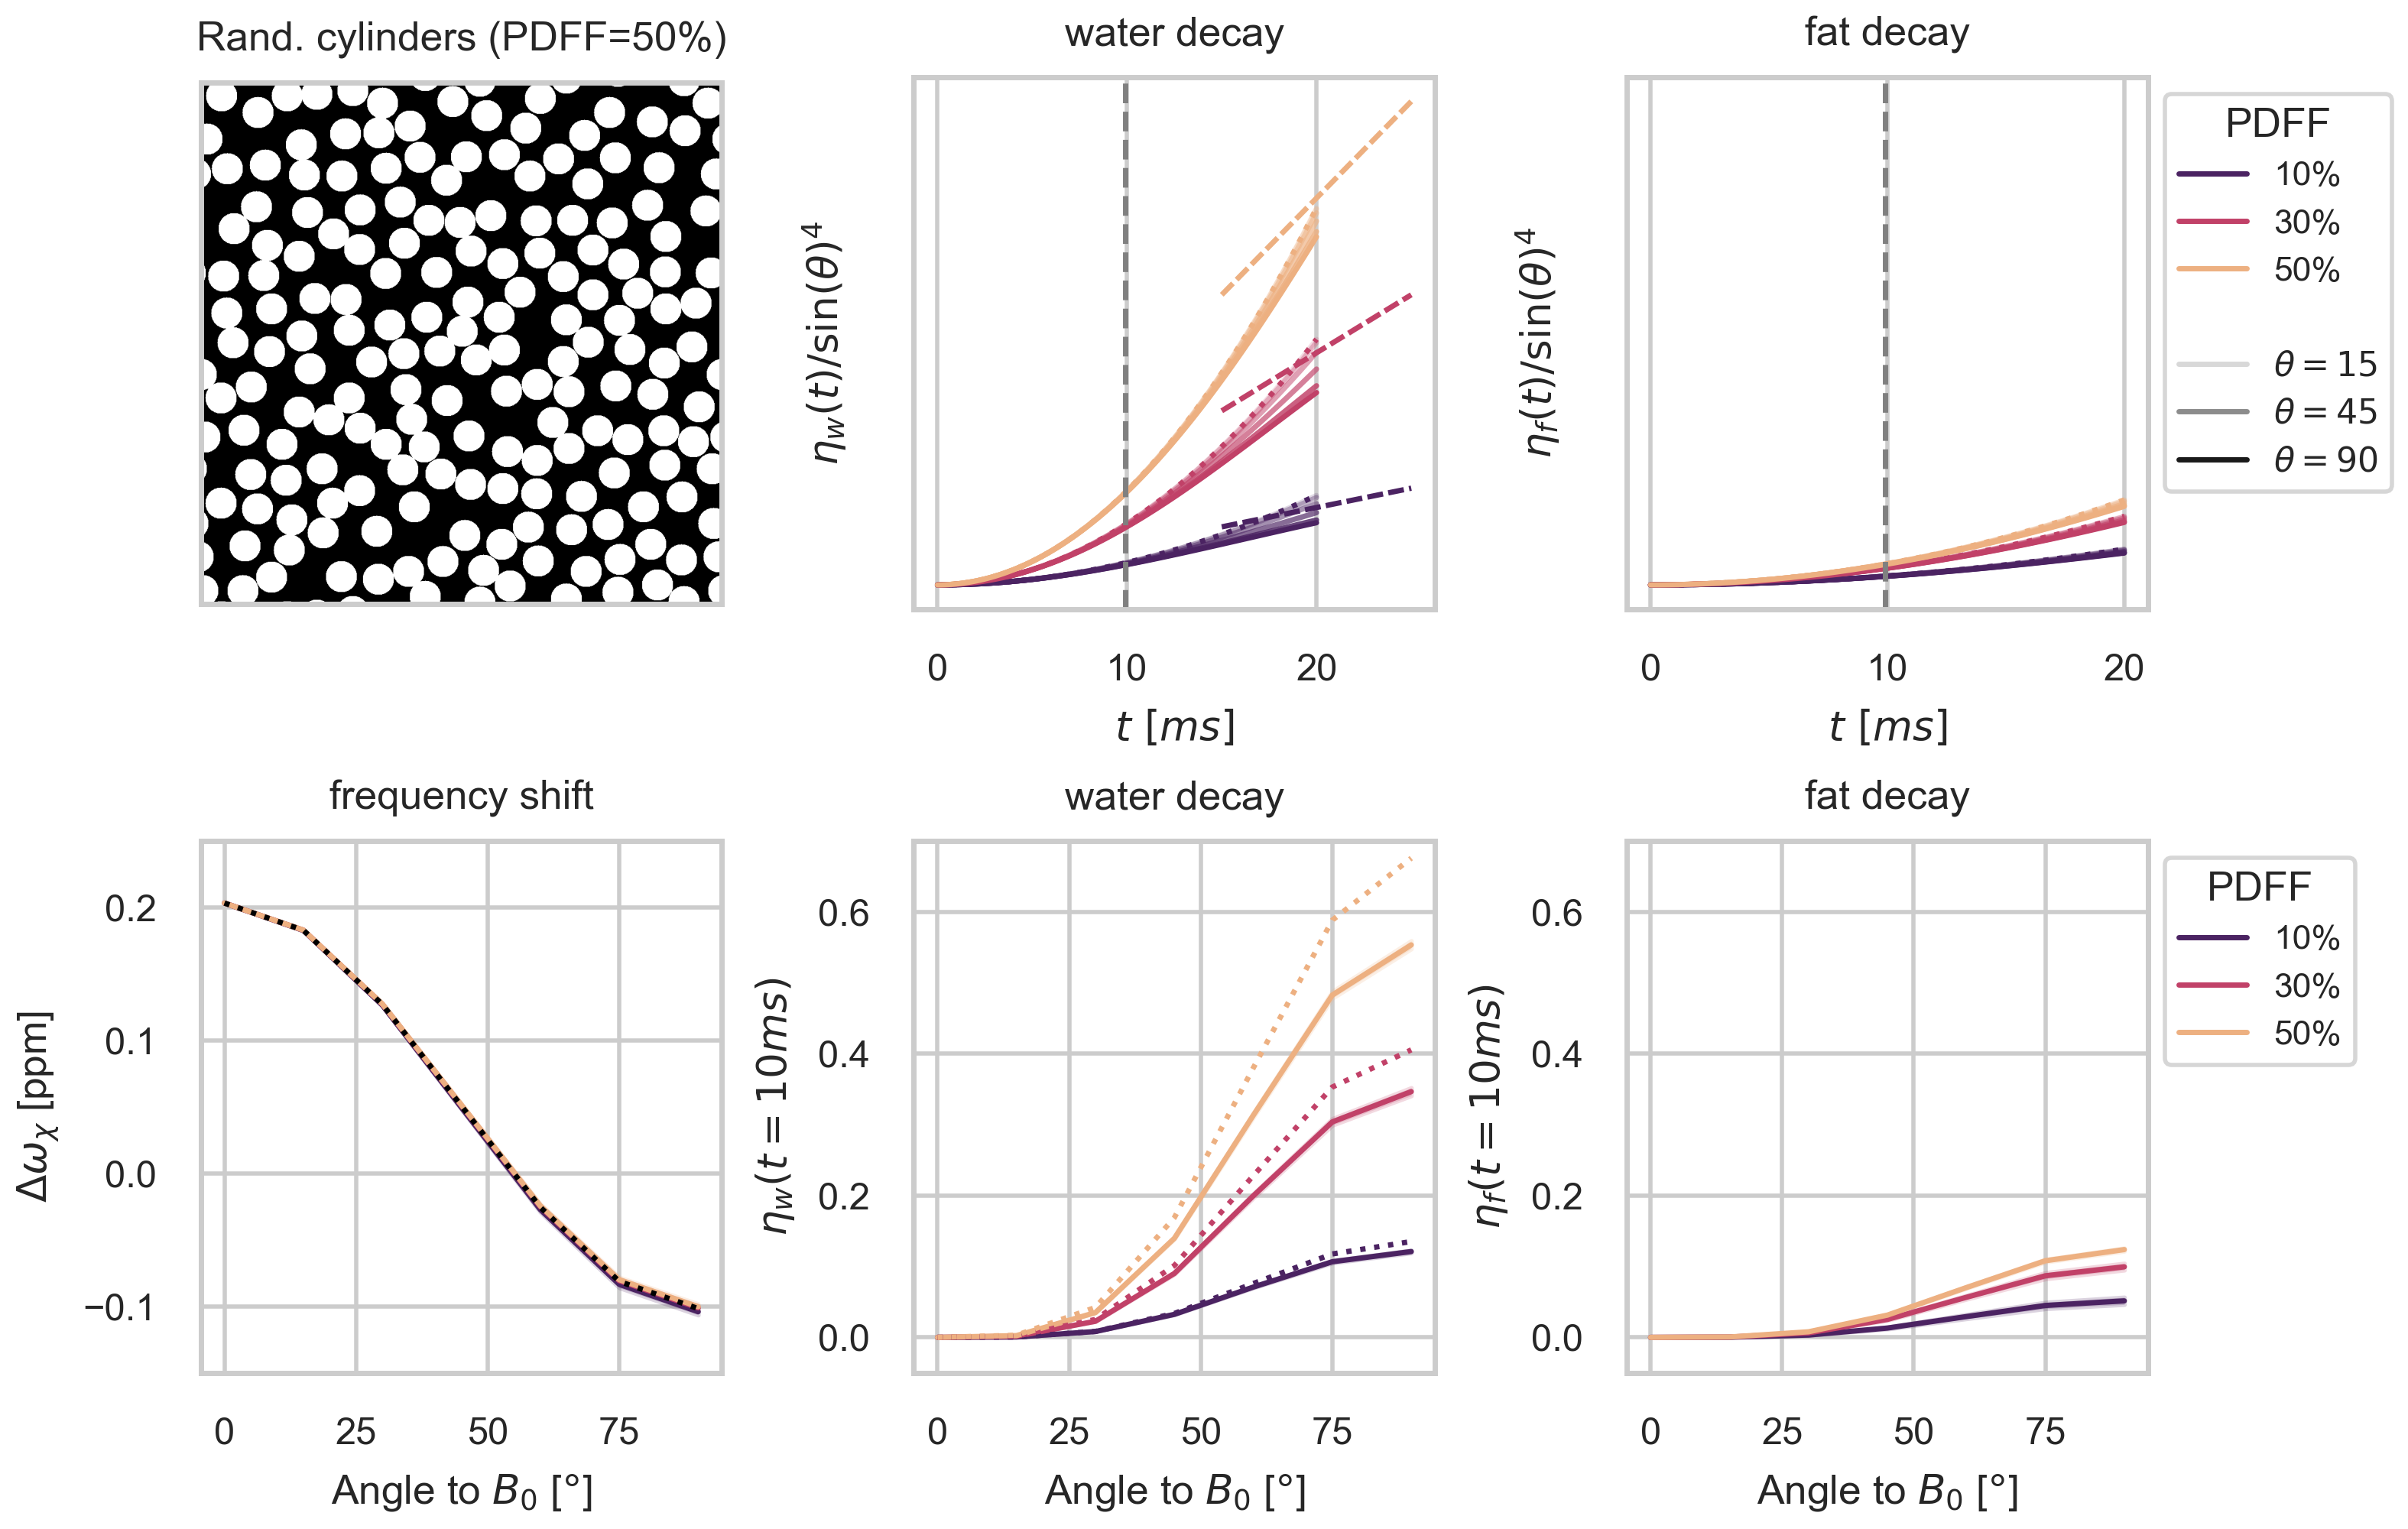
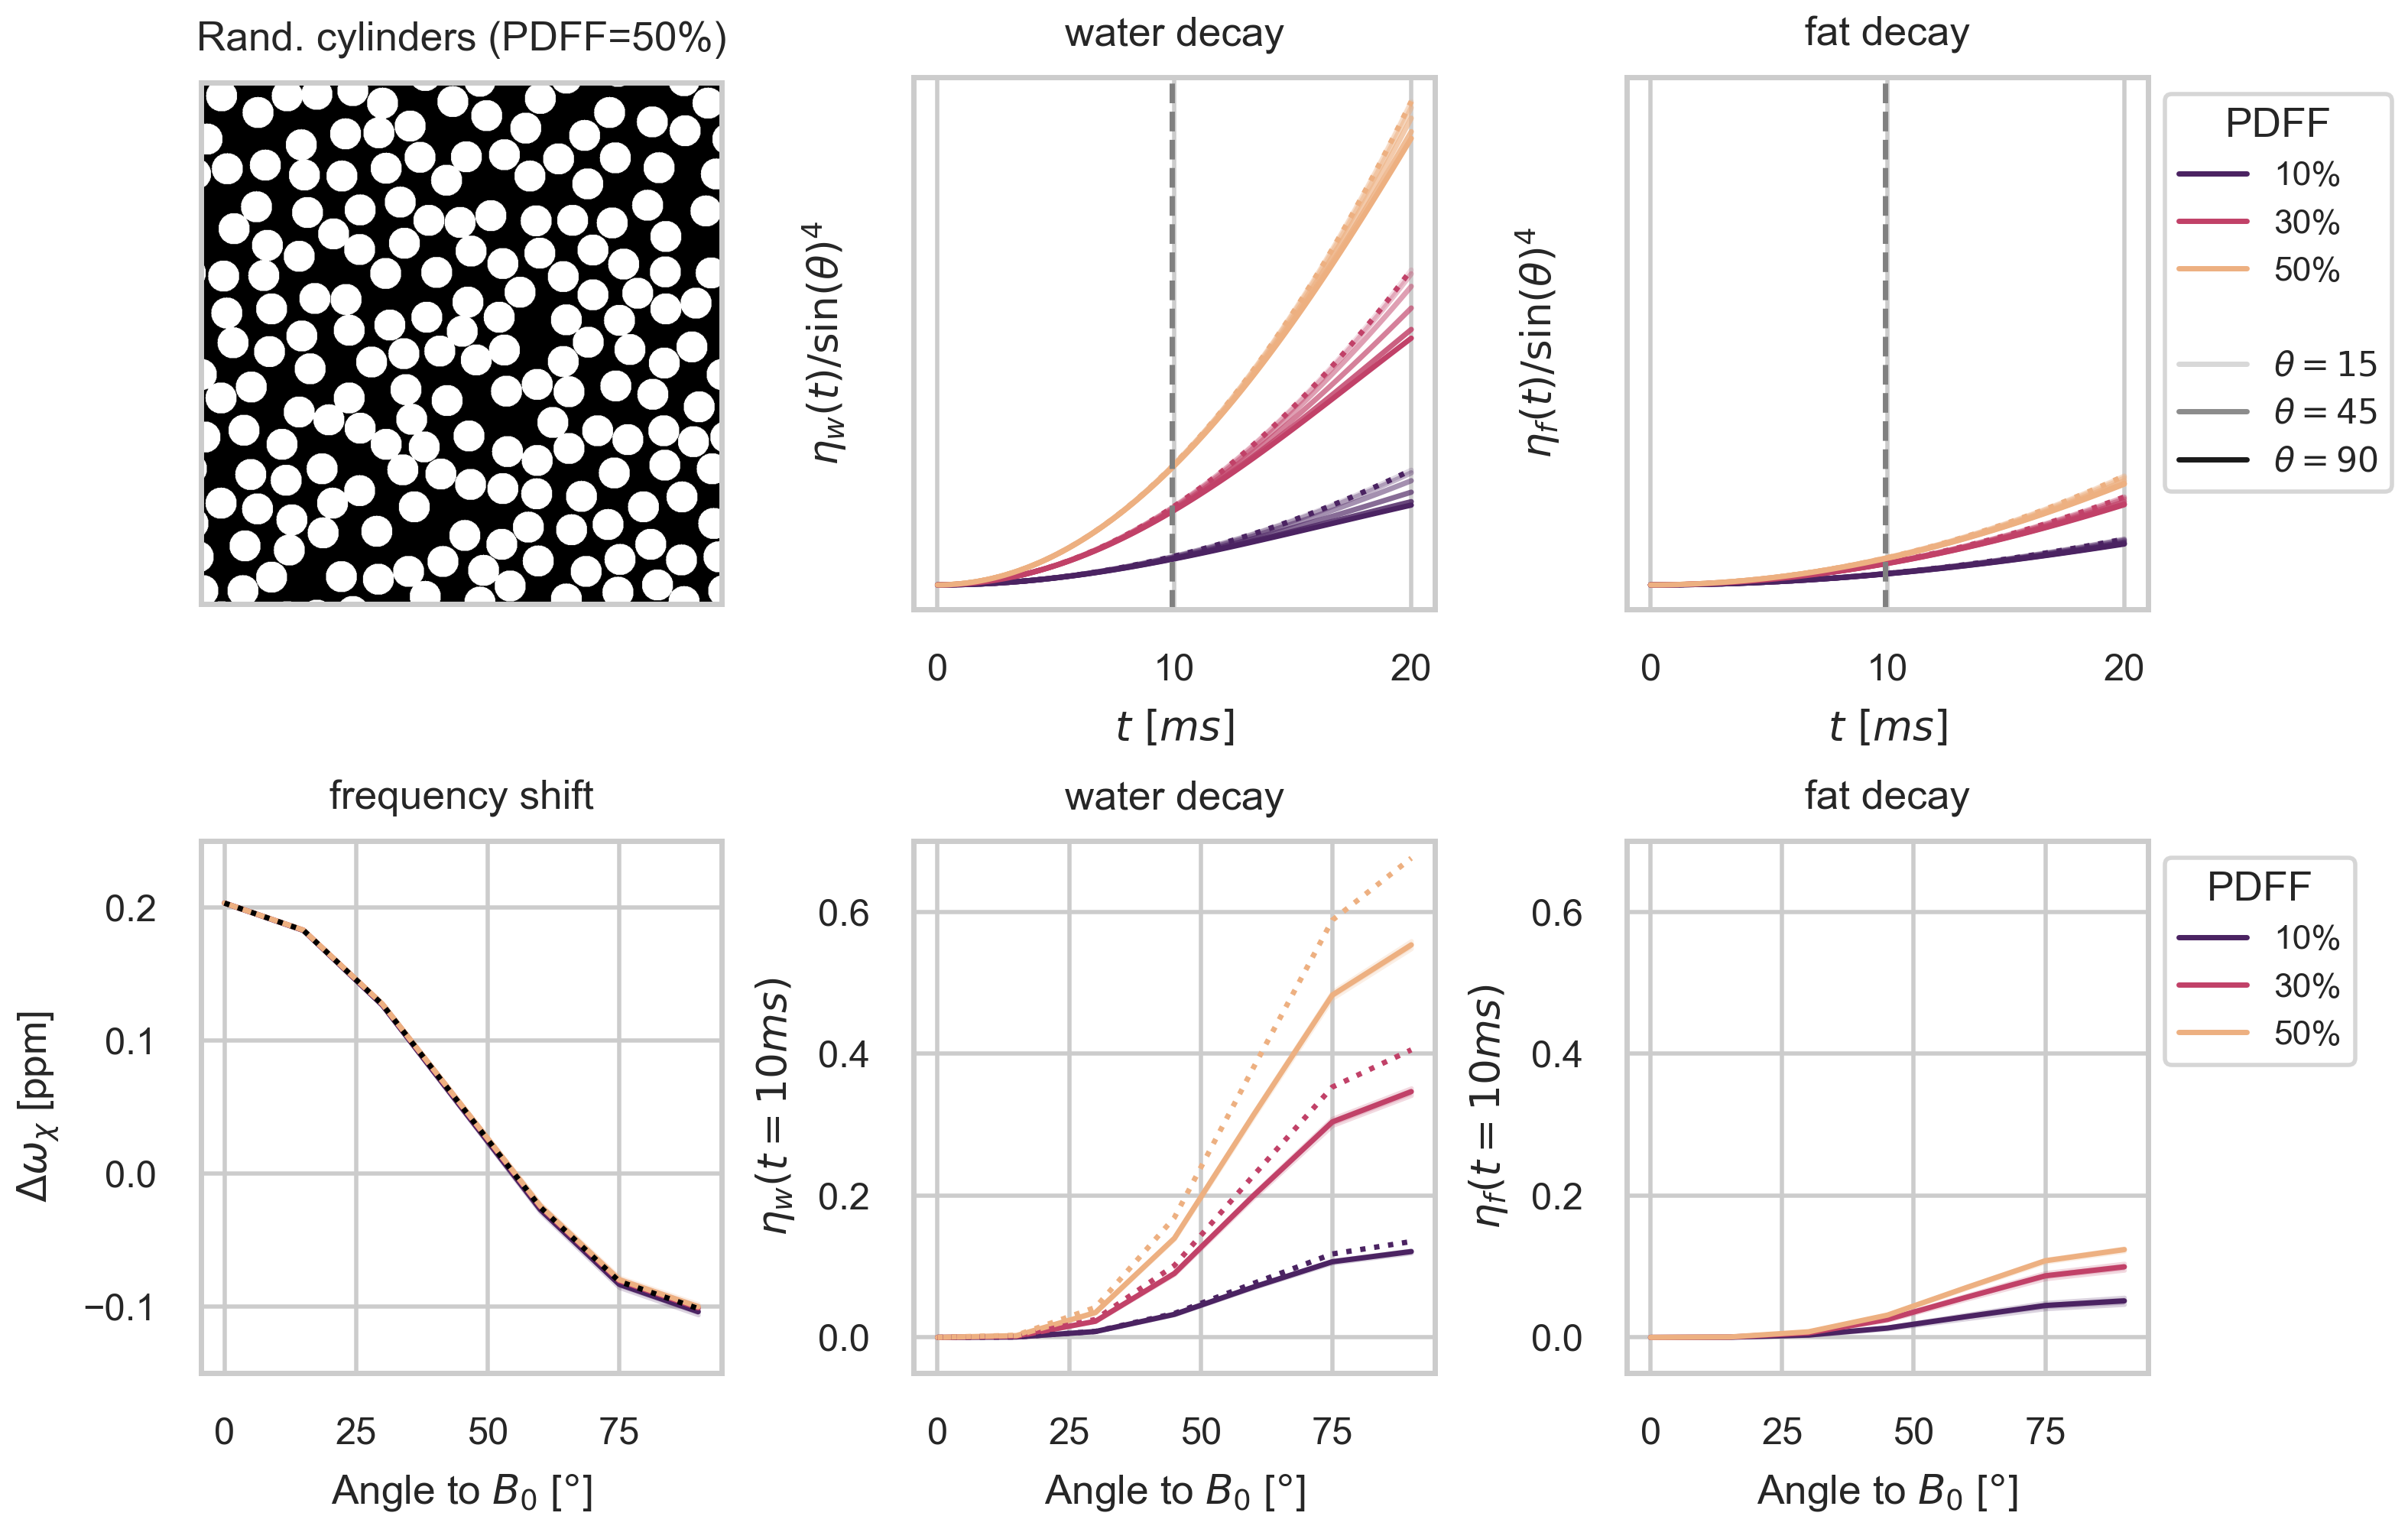
improved figure in microstructure simulations

diff --git a/simulations/microstructure/microstructure_plot.py b/simulations/microstructure/microstructure_plot.py
@@ -165,8 +165,8 @@ lines = pd.concat([slope * t for t in tt], axis=0, keys=tt, names=['time']).rena
 ax1 = axes[0, 1]
 plt.sca(ax1)
 sns.lineplot(data=data[(data.angle==0)&(data.nexp==0)], x='time', y='qline', hue='fraction', palette='flare_r', linestyle=':', errorbar=None, legend=False)
-if info['OBJECT'] == 'RCYLINDERS':
-    sns.lineplot(lines.loc[lines.angle==90], x='time', y='line', hue='fraction', palette='flare_r', dashes=(3,1), legend=False) 
+# if info['OBJECT'] == 'RCYLINDERS':
+#     sns.lineplot(lines.loc[lines.angle==90], x='time', y='line', hue='fraction', palette='flare_r', dashes=(3,1), legend=False) 
 for angle, df in data.groupby('angle'):
     alpha = angle/90
     sns.lineplot(data=df, x='time', y='logfid', hue='fraction', palette='flare_r', alpha=alpha, errorbar=None, legend=False)